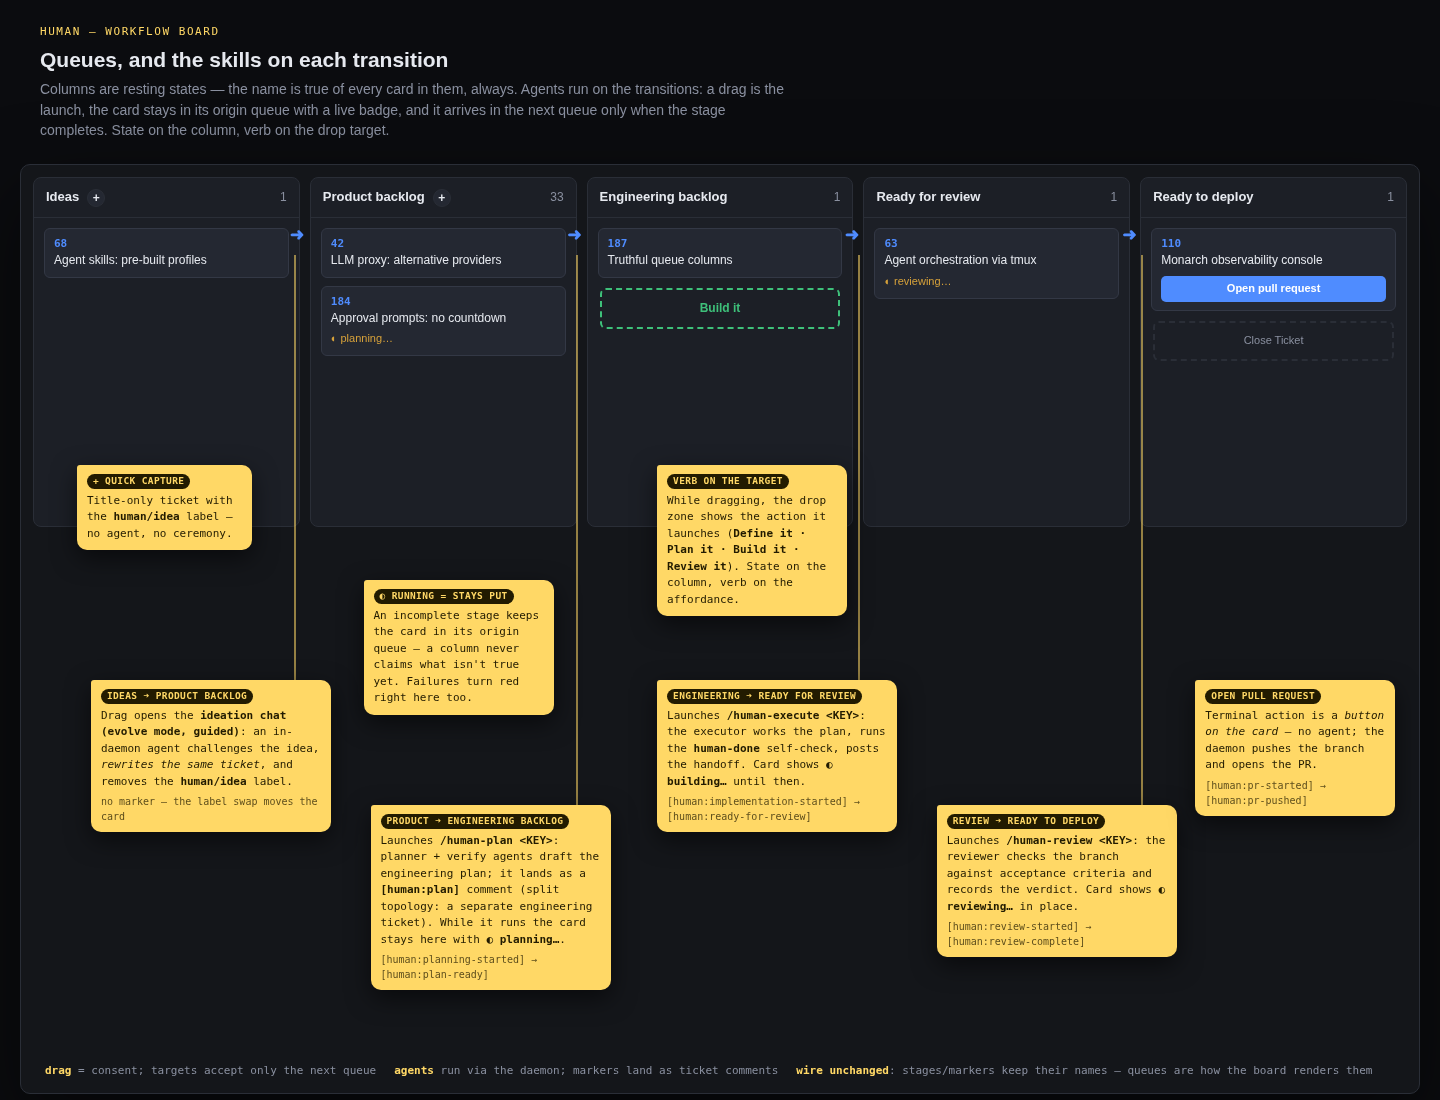
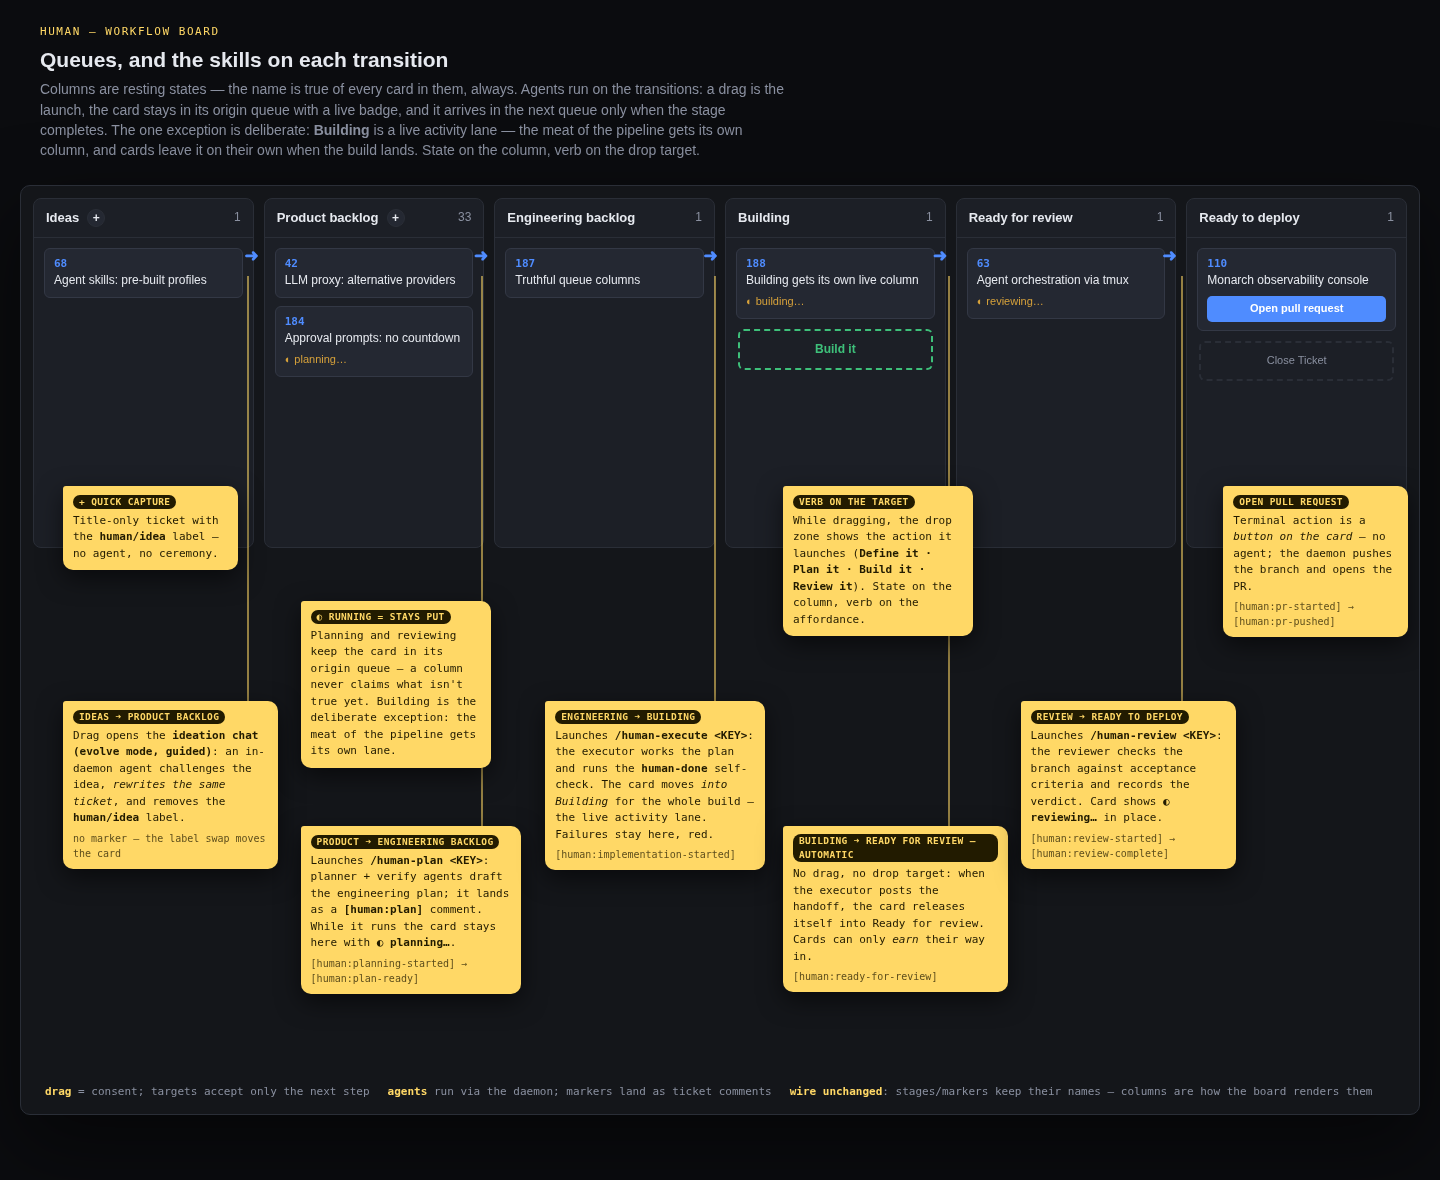
Merge pull request #69 from gethuman-sh/feature/building-column-sc-188
[SC-188] Building gets its own live column on the workflow board

Pull request: [SC-188] Building gets its own live column on the workflow board
## What

Adds a dedicated **Building** column to the desktop workflow board, between Engineering backlog and Ready for review — six columns total.

Building is deliberately the one activity lane among the resting queues: building is the longest, weightiest phase, so it gets treated specially.

- Dropping an engineering-backlog card onto **Building** launches `/human-execute`; the card moves into Building immediately and lives there for the whole build (failures stay there, red).
- When the executor posts `[human:ready-for-review]`, the card **releases itself** into Ready for review — no drag.
- **Ready for review is no longer a drop target at all**: cards can only earn their way in. The `Build it` verb moves onto the Building drop zone.
- Fancy-theme column hues re-keyed to the queue ids the board actually stamps (they still pointed at the pre-#68 stage names).
- Docs, wails.json, FEATURE.json, and the annotated `docs/board-skills` diagram (HTML + re-rendered PNG) updated for the six-column model.

Pure display change — wire stages, markers, and the daemon are untouched, same as #68.

## Ticket

SC-188

🤖 Generated with [Claude Code](https://claude.com/claude-code)

diff --git a/docs/board-skills.html b/docs/board-skills.html
@@ -25,7 +25,7 @@
     border: 1px solid var(--col-border); border-radius: 10px; overflow: hidden;
     background: var(--bg); height: 930px; box-shadow: 0 30px 80px rgba(0,0,0,.5); padding: 12px; }
 
-  .board { display: grid; grid-template-columns: repeat(5, 1fr); gap: 10px; height: 350px; }
+  .board { display: grid; grid-template-columns: repeat(6, 1fr); gap: 10px; height: 350px; }
   .col { background: var(--col-bg); border: 1px solid var(--col-border); border-radius: 8px; display: flex; flex-direction: column; }
   .col-h { display: flex; align-items: center; gap: 8px; padding: 10px 12px; font-weight: 600; font-size: 13px; border-bottom: 1px solid var(--col-border); }
   .addbtn { width: 18px; height: 18px; border-radius: 50%; border: 1px solid var(--col-border); background: var(--card-bg);
@@ -68,7 +68,9 @@
   <h1>Queues, and the skills on each transition</h1>
   <p>Columns are resting states — the name is true of every card in them, always. Agents run on the transitions:
      a drag is the launch, the card stays in its origin queue with a live badge, and it arrives in the next queue
-     only when the stage completes. State on the column, verb on the drop target.</p>
+     only when the stage completes. The one exception is deliberate: <strong>Building</strong> is a live activity lane —
+     the meat of the pipeline gets its own column, and cards leave it on their own when the build lands.
+     State on the column, verb on the drop target.</p>
 </div>
 
 <div class="frame">
@@ -88,6 +90,12 @@
       <div class="col-h">Engineering backlog <span class="count">1</span></div>
       <div class="col-b">
         <div class="card"><div class="key">187</div><div class="t">Truthful queue columns</div></div>
+      </div>
+    </div>
+    <div class="col">
+      <div class="col-h">Building <span class="count">1</span></div>
+      <div class="col-b">
+        <div class="card"><div class="key">188</div><div class="t">Building gets its own live column</div><div class="badge running">◐ building…</div></div>
         <div class="verbzone">Build it</div>
       </div>
     </div>
@@ -105,19 +113,21 @@
   </div>
 
   <div class="arrows">
-    <div class="arrow" style="left: 18.7%">➜</div>
-    <div class="arrow" style="left: 38.9%">➜</div>
-    <div class="arrow" style="left: 59.1%">➜</div>
-    <div class="arrow" style="left: 79.3%">➜</div>
+    <div class="arrow" style="left: 15.4%">➜</div>
+    <div class="arrow" style="left: 32.1%">➜</div>
+    <div class="arrow" style="left: 48.8%">➜</div>
+    <div class="arrow" style="left: 65.5%">➜</div>
+    <div class="arrow" style="left: 82.2%">➜</div>
   </div>
 
   <!-- ticks: notes to their transition -->
-  <div class="tick" style="left: 19.5%; top: 90px;  height: 425px;"></div>
-  <div class="tick" style="left: 39.7%; top: 90px;  height: 550px;"></div>
-  <div class="tick" style="left: 59.9%; top: 90px;  height: 425px;"></div>
-  <div class="tick" style="left: 80.1%; top: 90px;  height: 550px;"></div>
+  <div class="tick" style="left: 16.2%; top: 90px;  height: 425px;"></div>
+  <div class="tick" style="left: 32.9%; top: 90px;  height: 550px;"></div>
+  <div class="tick" style="left: 49.6%; top: 90px;  height: 425px;"></div>
+  <div class="tick" style="left: 66.3%; top: 90px;  height: 550px;"></div>
+  <div class="tick" style="left: 83.0%; top: 90px;  height: 425px;"></div>
 
-  <div class="note" style="left: 5%; top: 515px;">
+  <div class="note" style="left: 3%; top: 515px; max-width: 215px;">
     <b>IDEAS ➜ PRODUCT BACKLOG</b><br>
     Drag opens the <code>ideation chat (evolve mode, guided)</code>: an
     in-daemon agent challenges the idea, <em>rewrites the same ticket</em>,
@@ -125,24 +135,32 @@
     <span class="m">no marker — the label swap moves the card</span>
   </div>
 
-  <div class="note" style="left: 25%; top: 640px;">
+  <div class="note" style="left: 20%; top: 640px; max-width: 220px;">
     <b>PRODUCT ➜ ENGINEERING BACKLOG</b><br>
     Launches <code>/human-plan &lt;KEY&gt;</code>: planner + verify agents draft the
-    engineering plan; it lands as a <code>[human:plan]</code> comment (split
-    topology: a separate engineering ticket). While it runs the card stays
-    here with <code>◐ planning…</code>.
+    engineering plan; it lands as a <code>[human:plan]</code> comment. While it
+    runs the card stays here with <code>◐ planning…</code>.
     <span class="m">[human:planning-started] → [human:plan-ready]</span>
   </div>
 
-  <div class="note" style="left: 45.5%; top: 515px;">
-    <b>ENGINEERING ➜ READY FOR REVIEW</b><br>
-    Launches <code>/human-execute &lt;KEY&gt;</code>: the executor works the plan,
-    runs the <code>human-done</code> self-check, posts the handoff. Card shows
-    <code>◐ building…</code> until then.
-    <span class="m">[human:implementation-started] → [human:ready-for-review]</span>
+  <div class="note" style="left: 37.5%; top: 515px; max-width: 220px;">
+    <b>ENGINEERING ➜ BUILDING</b><br>
+    Launches <code>/human-execute &lt;KEY&gt;</code>: the executor works the plan
+    and runs the <code>human-done</code> self-check. The card moves <em>into
+    Building</em> for the whole build — the live activity lane. Failures stay
+    here, red.
+    <span class="m">[human:implementation-started]</span>
   </div>
 
-  <div class="note" style="left: 65.5%; top: 640px;">
+  <div class="note" style="left: 54.5%; top: 640px; max-width: 225px;">
+    <b>BUILDING ➜ READY FOR REVIEW — AUTOMATIC</b><br>
+    No drag, no drop target: when the executor posts the handoff, the card
+    releases itself into Ready for review. Cards can only <em>earn</em> their
+    way in.
+    <span class="m">[human:ready-for-review]</span>
+  </div>
+
+  <div class="note" style="left: 71.5%; top: 515px; max-width: 215px;">
     <b>REVIEW ➜ READY TO DEPLOY</b><br>
     Launches <code>/human-review &lt;KEY&gt;</code>: the reviewer checks the branch
     against acceptance criteria and records the verdict. Card shows
@@ -150,26 +168,27 @@
     <span class="m">[human:review-started] → [human:review-complete]</span>
   </div>
 
-  <div class="note" style="left: 84%; top: 515px; max-width: 200px;">
+  <div class="note" style="left: 86%; top: 300px; max-width: 185px;">
     <b>OPEN PULL REQUEST</b><br>
     Terminal action is a <em>button on the card</em> — no agent; the daemon
     pushes the branch and opens the PR.
     <span class="m">[human:pr-started] → [human:pr-pushed]</span>
   </div>
 
-  <div class="note" style="left: 4%; top: 300px; max-width: 175px;">
+  <div class="note" style="left: 3%; top: 300px; max-width: 175px;">
     <b>+ QUICK CAPTURE</b><br>
     Title-only ticket with the <code>human/idea</code> label — no agent, no
     ceremony.
   </div>
 
-  <div class="note" style="left: 24.5%; top: 415px; max-width: 190px;">
+  <div class="note" style="left: 20%; top: 415px; max-width: 190px;">
     <b>◐ RUNNING = STAYS PUT</b><br>
-    An incomplete stage keeps the card in its origin queue — a column never
-    claims what isn't true yet. Failures turn red right here too.
+    Planning and reviewing keep the card in its origin queue — a column never
+    claims what isn't true yet. Building is the deliberate exception: the
+    meat of the pipeline gets its own lane.
   </div>
 
-  <div class="note" style="left: 45.5%; top: 300px; max-width: 190px;">
+  <div class="note" style="left: 54.5%; top: 300px; max-width: 190px;">
     <b>VERB ON THE TARGET</b><br>
     While dragging, the drop zone shows the action it launches
     (<code>Define it · Plan it · Build it · Review it</code>). State on the
@@ -177,9 +196,9 @@
   </div>
 
   <div class="legend">
-    <span><b>drag</b> = consent; targets accept only the next queue</span>
+    <span><b>drag</b> = consent; targets accept only the next step</span>
     <span><b>agents</b> run via the daemon; markers land as ticket comments</span>
-    <span><b>wire unchanged</b>: stages/markers keep their names — queues are how the board renders them</span>
+    <span><b>wire unchanged</b>: stages/markers keep their names — columns are how the board renders them</span>
   </div>
 </div>
 

diff --git a/desktop/frontend/src/board.ts b/desktop/frontend/src/board.ts
@@ -197,19 +197,27 @@ export {};
 // being worked stays in its ORIGIN queue with a live badge and only arrives in
 // the next queue when the stage completes. State on the column, verb on the
 // affordance — the wire stages/markers are untouched; this is pure display.
-const QUEUES = ["ideas", "product", "engineering", "review", "deploy"] as const;
+// Building is the one ACTIVITY column among the queues — deliberately special
+// because building is the board's longest and weightiest phase: the column
+// holds exactly the cards the executor is working on (the machine verifies
+// membership, so the name stays true), and its count is the live build gauge.
+// Cards leave it on their own when the handoff posts; Ready for review is
+// never a drop target — cards can only earn their way in.
+const QUEUES = ["ideas", "product", "engineering", "building", "review", "deploy"] as const;
 const QUEUE_LABELS: Record<string, string> = {
   ideas: "Ideas",
   product: "Product backlog",
   engineering: "Engineering backlog",
+  building: "Building",
   review: "Ready for review",
   deploy: "Ready to deploy",
 };
 
-// Wire stage launched by dropping onto a queue from its predecessor.
+// Wire stage launched by dropping onto a queue from its predecessor. Queues
+// missing here (ideas, review) accept no transition drop at all.
 const QUEUE_TRANSITION_TO: Record<string, string> = {
   engineering: "planning",
-  review: "implementation",
+  building: "implementation",
   deploy: "verification",
 };
 
@@ -218,11 +226,12 @@ const QUEUE_TRANSITION_TO: Record<string, string> = {
 const QUEUE_VERB: Record<string, string> = {
   product: "Define it",
   engineering: "Plan it",
-  review: "Build it",
+  building: "Build it",
   deploy: "Review it",
 };
 
-// Live badge text while a stage runs; the card sits in its origin queue.
+// Live badge text while a stage runs; the card sits in its origin queue —
+// except implementation, which has its own Building lane.
 const RUNNING_LABELS: Record<string, string> = {
   planning: "planning…",
   implementation: "building…",
@@ -230,9 +239,9 @@ const RUNNING_LABELS: Record<string, string> = {
   done: "opening PR…",
 };
 
-// queueOf maps the wire (stage, state) onto the resting queue: an incomplete
-// stage keeps the card in the queue it was pulled from, so no column ever
-// claims something that is not yet true.
+// queueOf maps the wire (stage, state) onto the column whose name is true of
+// the card: incomplete stages keep the card where it was pulled from, apart
+// from an in-flight (or failed) build, which lives in the Building lane.
 function queueOf(card: Card): string {
   switch (card.stage) {
     case "ideas":
@@ -242,7 +251,7 @@ function queueOf(card: Card): string {
     case "planning":
       return card.state === "done" ? "engineering" : "product";
     case "implementation":
-      return card.state === "done" ? "review" : "engineering";
+      return card.state === "done" ? "review" : "building";
     case "verification":
       return card.state === "done" ? "deploy" : "review";
     case "done":
@@ -380,9 +389,10 @@ function renderColumn(queue: string): HTMLElement {
   body.className = "column-body";
   for (const card of cards) body.appendChild(renderCard(card));
 
-  if (queue !== "ideas") {
-    // Every queue but Ideas is a drop target for its predecessor; the verb on
-    // the target names the action the drop launches.
+  if (queue === "product" || QUEUE_TRANSITION_TO[queue] !== undefined) {
+    // Drop targets are the queues a drag can act on: product (idea promotion)
+    // and the transition-launching queues. Ready for review is deliberately
+    // NOT a target — cards arrive there only by finishing a build.
     markQueueTarget(body, queue);
   }
   if (queue === "deploy") {

diff --git a/desktop/frontend/static/style.css b/desktop/frontend/static/style.css
@@ -1160,21 +1160,25 @@ body {
    look degrades to a static (but still colorful) style.
    ========================================================================= */
 
-/* [FANCY:palette] Per-stage pastel rainbow hue, inherited by everything inside
-   a column (drop zones, glows, card shadows) via var(--fancy-hue). */
-[data-theme="fancy"] .column[data-stage="backlog"] {
+/* [FANCY:palette] Per-queue pastel rainbow hue, inherited by everything inside
+   a column (drop zones, glows, card shadows) via var(--fancy-hue). Keys are
+   the QUEUE ids the board stamps as data-stage. */
+[data-theme="fancy"] .column[data-stage="ideas"] {
+  --fancy-hue: 300;
+}
+[data-theme="fancy"] .column[data-stage="product"] {
   --fancy-hue: 330;
 }
-[data-theme="fancy"] .column[data-stage="planning"] {
+[data-theme="fancy"] .column[data-stage="engineering"] {
   --fancy-hue: 45;
 }
-[data-theme="fancy"] .column[data-stage="implementation"] {
-  --fancy-hue: 165;
+[data-theme="fancy"] .column[data-stage="building"] {
+  --fancy-hue: 120;
 }
-[data-theme="fancy"] .column[data-stage="verification"] {
+[data-theme="fancy"] .column[data-stage="review"] {
   --fancy-hue: 210;
 }
-[data-theme="fancy"] .column[data-stage="done"] {
+[data-theme="fancy"] .column[data-stage="deploy"] {
   --fancy-hue: 280;
 }
 

diff --git a/docs/desktop-app.md b/docs/desktop-app.md
@@ -1,9 +1,10 @@
 # Desktop App (Wails)
 
 The desktop GUI (`desktop/`) is a [Wails v2](https://wails.io) application: the
-interactive five-queue workflow board (Ideas → Product backlog → Engineering backlog → Ready for review → Ready to deploy) delivered for SC-105 / HUM-141. Each card
+interactive six-column workflow board (Ideas → Product backlog → Engineering backlog → Building → Ready for review → Ready to deploy) delivered for SC-105 / HUM-141. Each card
 is a ticket; dragging a card forward one column triggers that stage's `human`
-action through the daemon, and placement/checkmarks/running-state derive
+action through the daemon (Building holds the card while the executor runs and
+releases it to Ready for review on completion), and placement/checkmarks/running-state derive
 entirely from the `[human:…]` comment markers (and, for the Ideas column, the
 `human/idea` label) the daemon ships on the wire.
 

diff --git a/README.md b/README.md
@@ -115,7 +115,7 @@ Each module ships a short `README.md` describing what it does for you, in plain 
 
 **User interfaces**
 
-- [Workflow Board (desktop)](desktop/README.md) — drag-to-trigger five-queue pipeline board (Wails)
+- [Workflow Board (desktop)](desktop/README.md) — drag-to-trigger six-column pipeline board (Wails)
 - [Project Starters](internal/starter/README.md) — scaffold empty directories from starter templates
 
 **Infrastructure & security**
@@ -408,7 +408,7 @@ make build
 
 ### Desktop app (workflow board)
 
-The desktop GUI is the interactive workflow board with five queue columns (Ideas → Product backlog → Engineering backlog → Ready for review → Ready to deploy): every column names a state that is true of each card in it, dragging a card to the next queue launches that transition's `human` agent, and a card being worked stays in its origin queue with a live badge until the stage completes. The Ideas column's `+` quick-captures a title-only ticket labeled `human/idea`; dragging an idea onto the Product backlog opens guided ideation that evolves the same ticket in place (same key, idea label removed). It runs on macOS, Windows and Linux.
+The desktop GUI is the interactive workflow board with six columns (Ideas → Product backlog → Engineering backlog → Building → Ready for review → Ready to deploy): every column names a state that is true of each card in it, and dragging a card to the next column launches that transition's `human` agent. Building is the live activity lane — dropping an engineering-backlog card there launches the executor, the card sits in Building while the build runs, and it moves to Ready for review on its own when the agent posts the handoff (Ready for review is never a drop target — cards can only earn their way in). Other agent stages (planning, reviewing) keep the card in its origin queue with a live badge until they complete. The Ideas column's `+` quick-captures a title-only ticket labeled `human/idea`; dragging an idea onto the Product backlog opens guided ideation that evolves the same ticket in place (same key, idea label removed). It runs on macOS, Windows and Linux.
 
 It must be built via the Wails CLI, **never** plain `go build ./desktop/` — Wails v2 requires build tags that only `wails build` (or `wails dev`) injects, and the whole `desktop/` package is behind a `wailsapp` build tag so the default `make build`/`make check` stay green on a plain toolchain.
 

diff --git a/desktop/README.md b/desktop/README.md
@@ -1,7 +1,7 @@
 # Workflow Board (desktop)
 
 A native cross-platform desktop app ([Wails v2](https://wails.io)) presenting the
-delivery pipeline as five queue columns. Each card is a ticket;
+delivery pipeline as six columns. Each card is a ticket;
 dragging a card forward one column triggers that stage's `human` action through
 the running daemon. Placement, checkmarks and running/error state all derive from
 the `[human:…]` comment markers (and, for ideas, the `human/idea` label) the
@@ -9,7 +9,7 @@ daemon ships on the wire — the frontend never re-derives a stage.
 
 ## What it does
 
-- Renders five queue columns — Ideas → Product backlog → Engineering backlog → Ready for review → Ready to deploy — whose names are true of every card in them: a card being worked by an agent stays in its origin queue with a live badge (planning… / building… / reviewing…) and arrives in the next queue when the stage completes. Verbs live on the drop targets (Define it / Plan it / Build it / Review it); opening the pull request is a button on reviewed cards.
+- Renders six columns — Ideas → Product backlog → Engineering backlog → Building → Ready for review → Ready to deploy — whose names are true of every card in them. Building is the one activity lane: dropping an engineering-backlog card onto it launches the executor, the card lives in Building while the build runs (failures stay there, red), and it moves to Ready for review by itself when the handoff posts — Ready for review accepts no drops, cards can only earn their way in. Other agent stages (planning, reviewing) keep the card in its origin queue with a live badge until they complete. Verbs live on the drop targets (Define it / Plan it / Build it / Review it); opening the pull request is a button on reviewed cards.
 - The Ideas column's `+` quick-captures a title-only ticket carrying the `human/idea` label. Dragging an idea onto Backlog opens guided ideation in evolve mode: the finished draft rewrites the same ticket in place — title and description replaced, idea label removed, key preserved — instead of creating a new one.
 - Card badges: a checkmark when a stage is done, a spinner while an agent runs it, an error badge on failure.
 - Drag a card to its single next column to advance it — earlier or non-adjacent targets reject and snap back; no backward target is offered. The drag is the consent; there is no secondary confirmation.